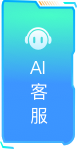
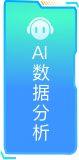
ui修改

Changed region(s): [[0.3117, 0.0, 1.0, 0.8859], [0.0, 0.0, 0.987, 1.0], [0.9091, 0.3221, 0.987, 0.3758]]

diff --git a/src/Page/qbiChat/chat/Chat.tsx b/src/Page/qbiChat/chat/Chat.tsx
@@ -19,6 +19,7 @@ import DigitalHuman, { DigitalHumanInstance } from "../voice/DigitalHuman";
 import broadcaster from "./digital.webm";
 import clearChat from "./delete.png";
 import Confirm from "../Confirm";
+import titleIcon from "./title.png";
 // 定义消息类型
 interface MessageItem {
   type: string;
@@ -285,13 +286,15 @@ function Chat({
                   align="start"
                   className="chat-welcome-content"
                 >
-                  <div className="chat-welcome-title">你好，我是您的AI助手</div>
+                  <div className="chat-welcome-title">
+                    <img src={titleIcon} alt="你好，我是您的AI助手" />
+                  </div>
                   <span className="chat-welcome-subtitle">
                     如果还没想好，您可以试着问我:
                   </span>
                 </Flex>
               )}
-              <Flex vertical gap="small" align="start" className="chat-tips">
+              <Flex vertical gap="middle" align="start" className="chat-tips">
                 {tips?.map((tip, index) => (
                   <span
                     key={index}

diff --git a/src/Page/qbiChat/chat/chat.less b/src/Page/qbiChat/chat/chat.less
@@ -110,22 +110,25 @@
   padding: 10px;
 }
 .chat-welcome-title {
-  color: #0cffd9;
-  font-size: 24px;
+  width: 300px;
+  img {
+    width: 100%;
+    height: 100%;
+  }
 }
 .chat-welcome-subtitle {
   color: #fff;
-  font-size: 14px;
+  font-size: 20px;
 }
 .chat-tips {
-  margin-top: 10px;
+  margin-top: 30px;
 }
 .chat-tip {
-  padding: 5px 8px;
-  background: #4678ba;
+  padding: 8px 30px;
+  background: #2e8fe7;
   border-radius: 25px;
   color: #fff;
-  font-size: 12px;
+  font-size: 16px;
   cursor: pointer;
 }
 
